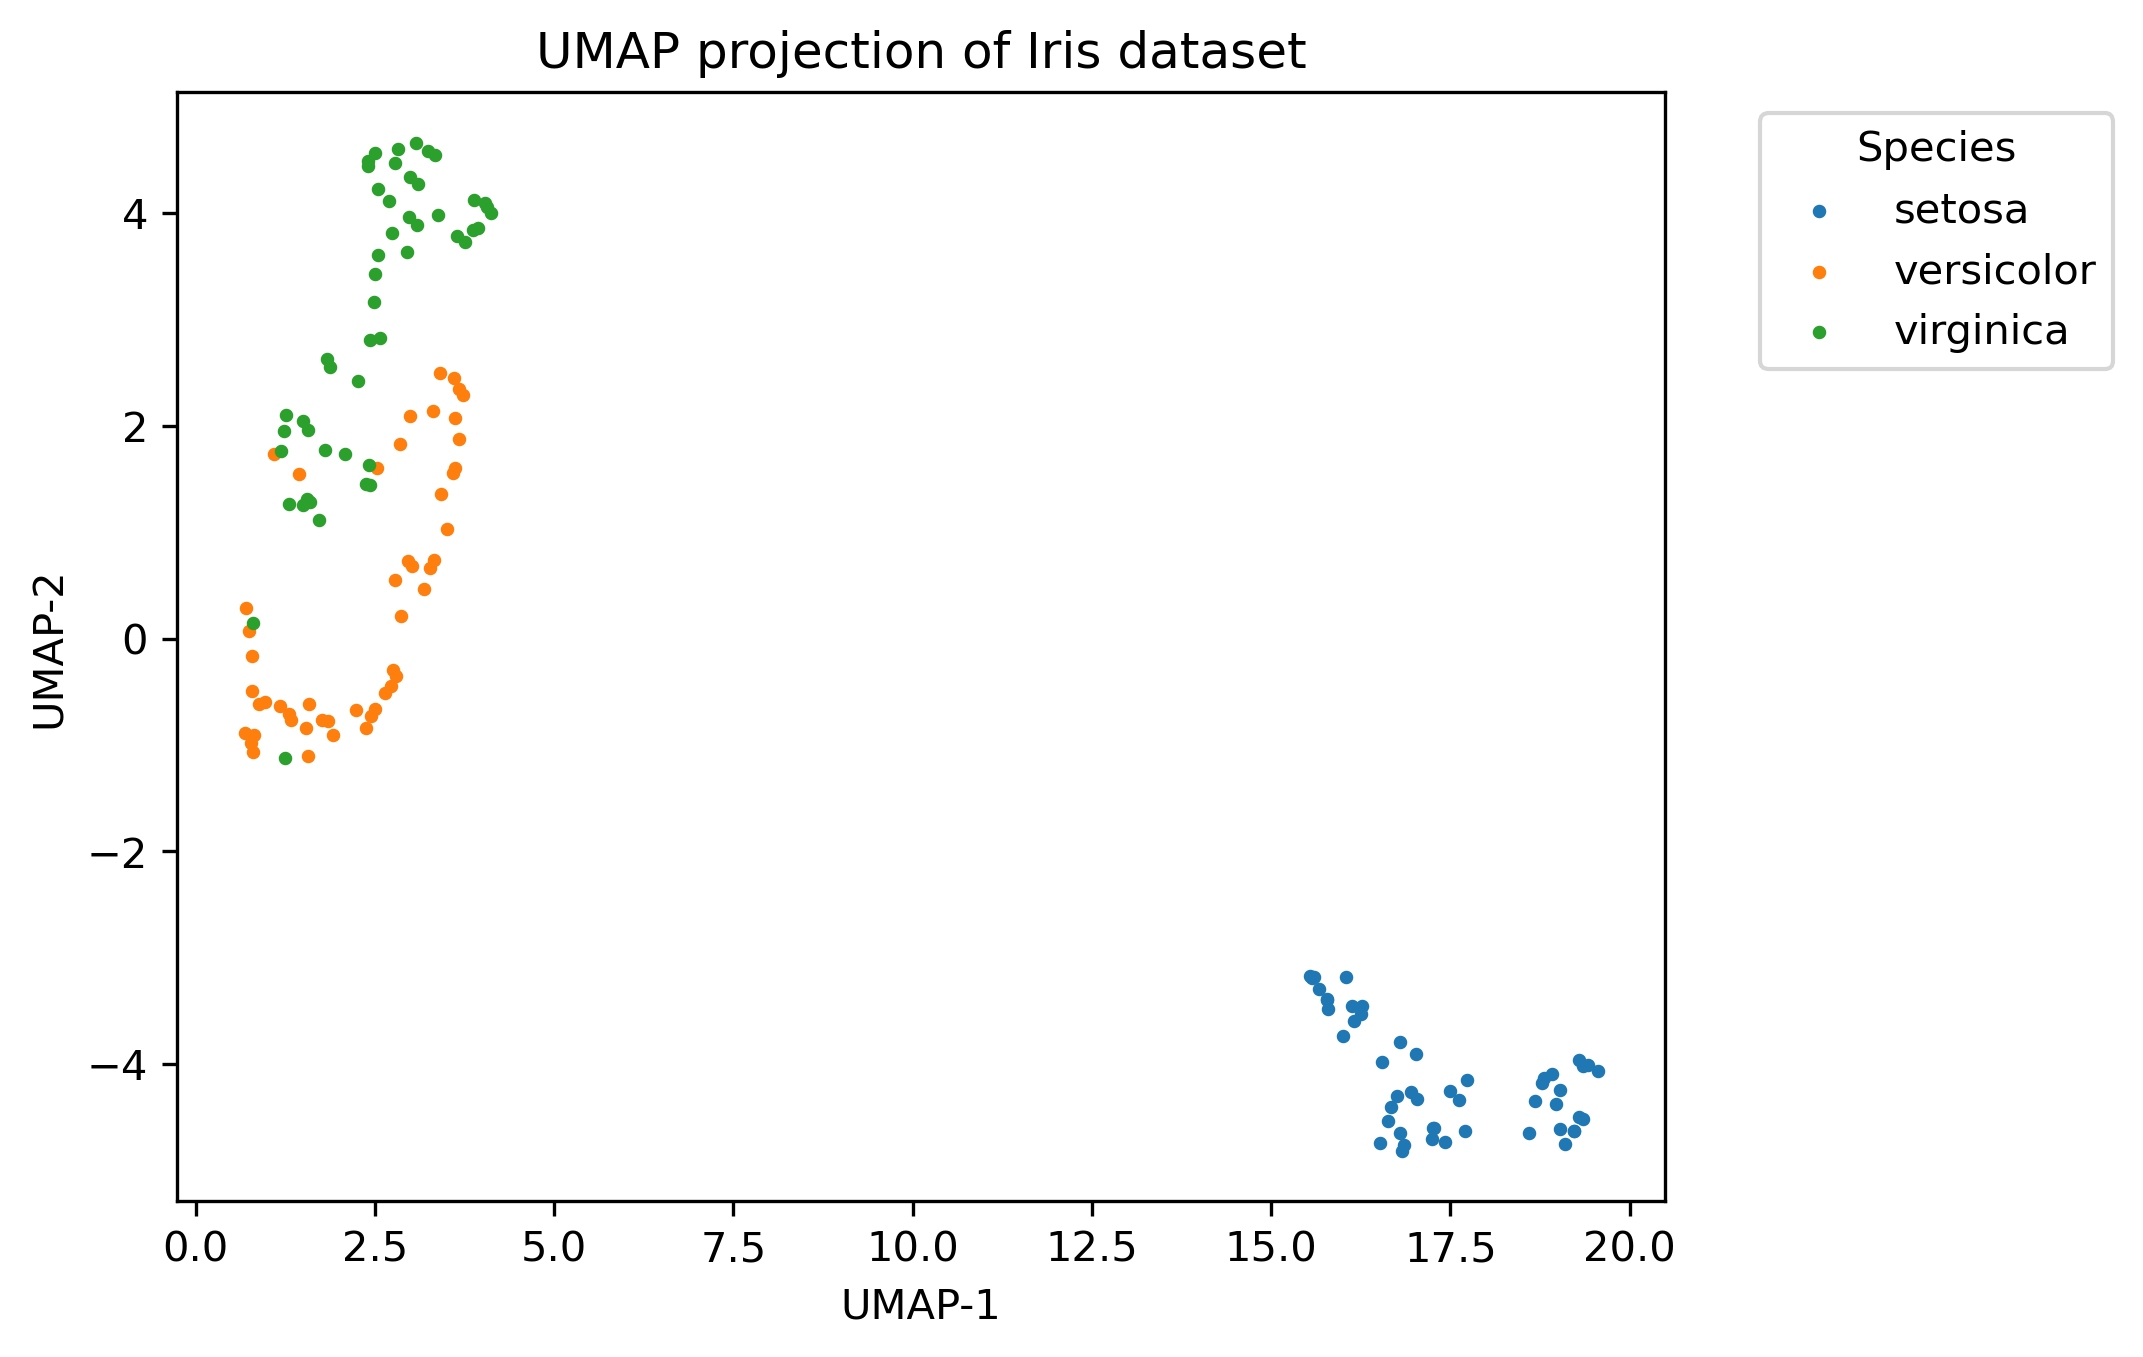
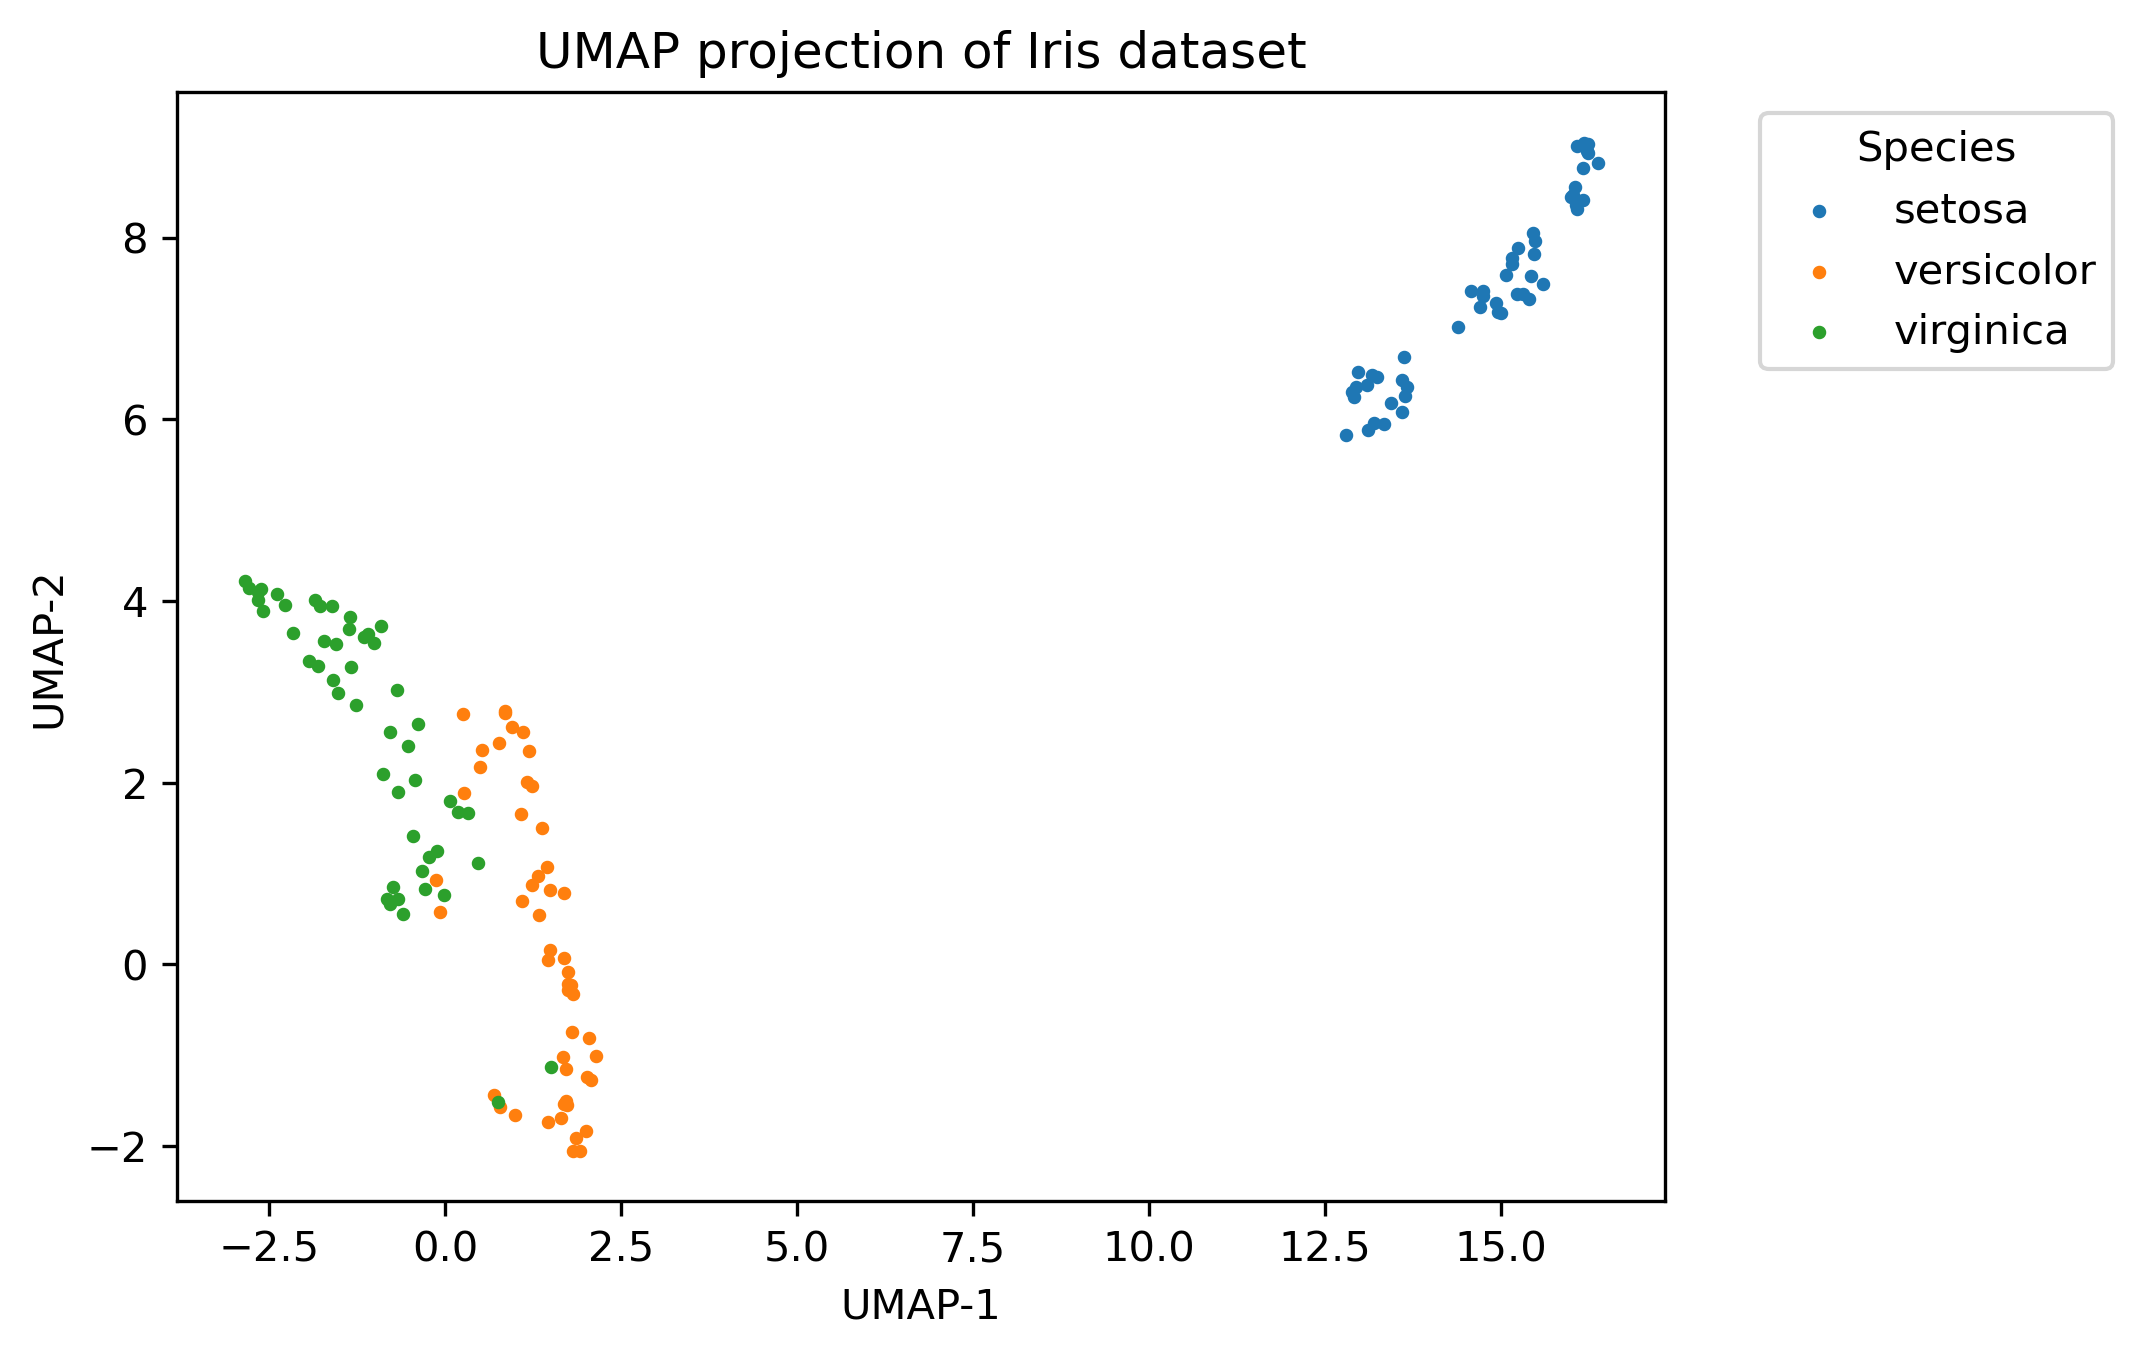
Add seed and print statement to the irisumap.py implementation

diff --git a/irisumap.py b/irisumap.py
@@ -24,9 +24,10 @@ X_scaled = scaler.fit_transform(X)
 y = df["target"].values
 print(X_scaled.shape)
 
-
-reducer = umap.UMAP()
+print("started UMAP")
+reducer = umap.UMAP(random_state=42)
 X_umap = reducer.fit_transform(X_scaled)
+print("finished UMAP")
 
 print(X_umap.shape)
 
